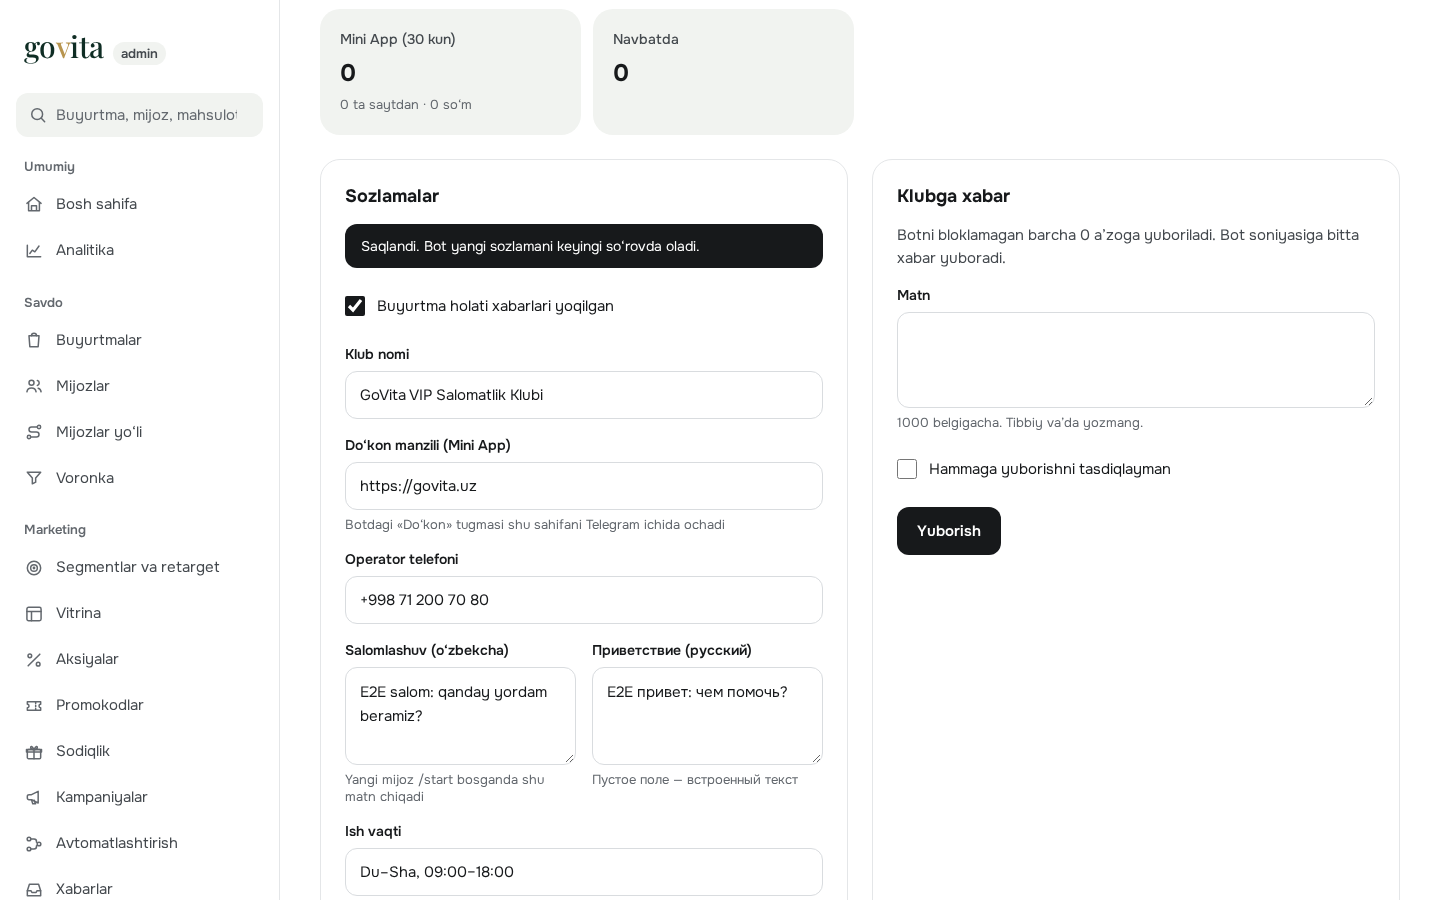
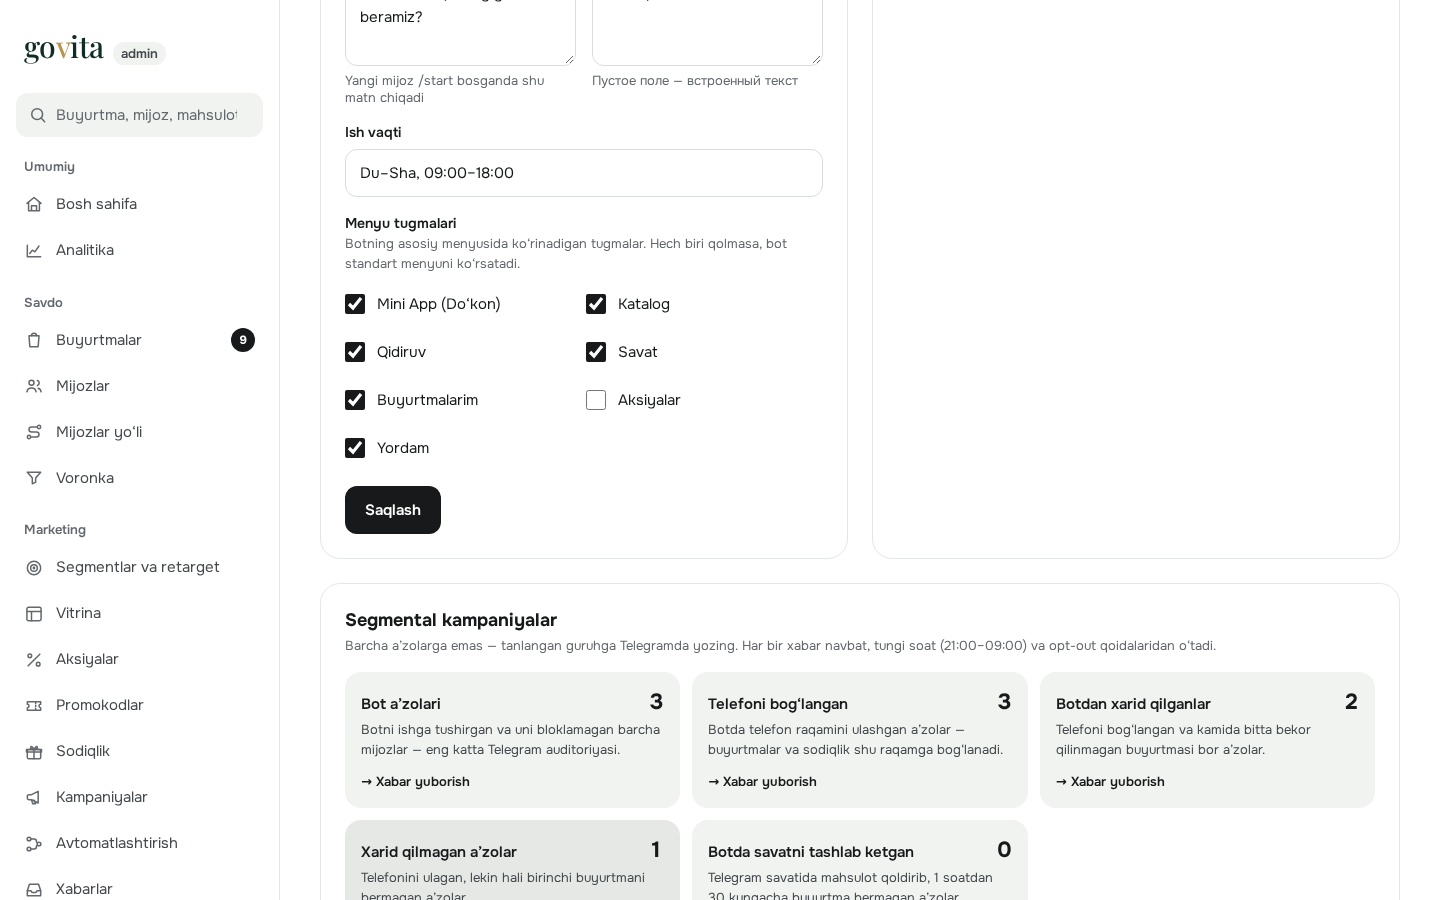
docs(e2e): the settings screenshot now shows the menu switches

diff --git a/docs/E2E-REPORT.md b/docs/E2E-REPORT.md
@@ -145,5 +145,5 @@ Project gates on the same tree: `tsc` 0, `eslint` 0, `vitest` 667/667,
 - `docs/e2e-shots/flow7-points-verified.png` — cashback verified with a code
 - `docs/e2e-shots/flow8-promo-strip.png` — the promo strip under the header
 - `docs/e2e-shots/flow9-bot-order.png` — the bot order in the panel
-- `docs/e2e-shots/flow10-bot-settings.png` — the settings the bot reads
+- `docs/e2e-shots/flow10-bot-settings.png` — the settings and menu switches the bot reads
 - `docs/e2e-shots/flow12-bot-customer-status.png` — a bot order delivered, with its messages
